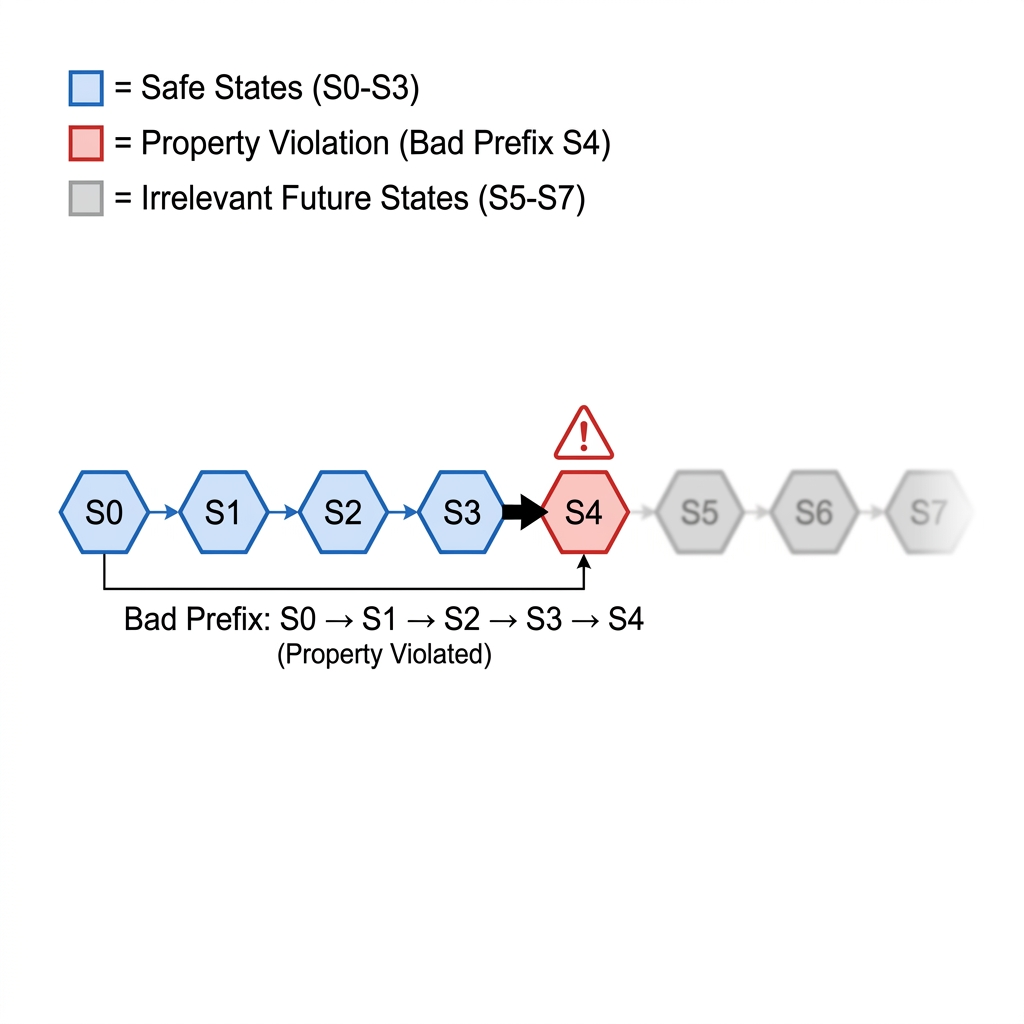
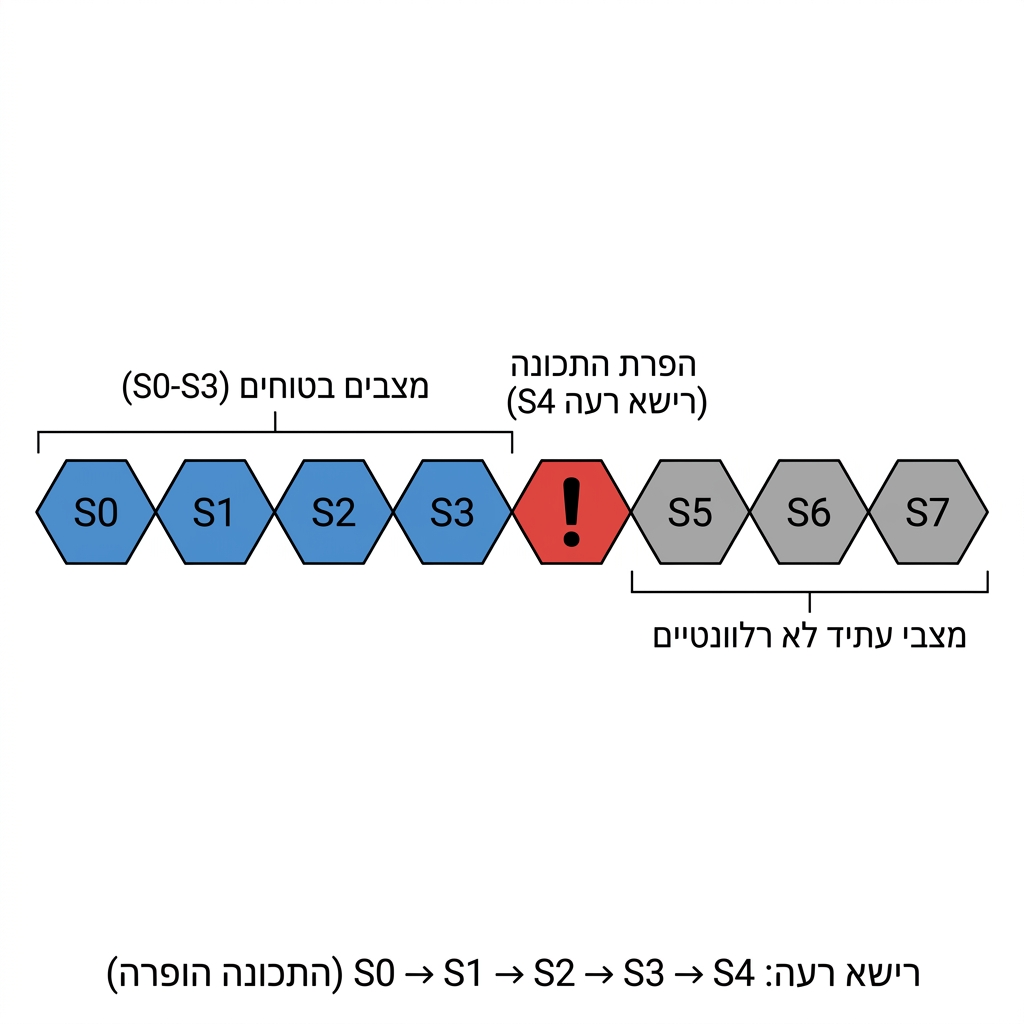
Update safety properties: add Closure Theorem proof, fix Hebrew terminology and gender, and refine bad prefix illustration layout

diff --git a/11-safety-properties.md b/11-safety-properties.md
@@ -36,6 +36,7 @@ info: |
 
 <div class="bg-slate-50 border border-slate-200 rounded p-4 mt-6">
 <div class="font-bold mb-2">דוגמה 1: כספומט (ATM)</div>
+
 הדרישה: "ניתן למשוך כסף רק אם קודם לכן הוקלד קוד סודי (PIN) נכון".
 זו אינה שמורה, כי המצב שבו יוצא כסף אינו "רע" בפני עצמו - הוא תלוי במה שקרה קודם. 
 עם זאת, זו עדיין תכונת בטיחות: אם משכנו כסף בלי קוד, עשינו מעשה רע **בזמן סופי**.
@@ -77,11 +78,12 @@ $$ P_{safe} \cap \{ \sigma' \in (2^{AP})^\omega \mid \rho \prec \sigma' \} = \em
 
 # המחשת הרישא הרעה
 
-<div class="flex flex-col items-center justify-center mt-10">
+<div class="flex flex-col items-center justify-center -mt-30 relative">
 
-<img src="/bad_prefix_concept.png" class="w-1/2 rounded-lg shadow-xl border border-slate-200" />
+<img src="/bad_prefix_concept.png" class="w-1/2 z--1" />
 
 <div class="mt-6 text-right w-2/3 text-[14px]">
+
 ברגע שהמסלול מבצע צעד "אסור" (הנקודה האדומה), התכונה מופרת באופן בלתי הפיך וזוהי בעצם הרישא הרעה ($\rho$). 
 העתיד של המסלול (החלק המעומעם) כבר לא יכול "לתקן" את המצב.
 </div>
